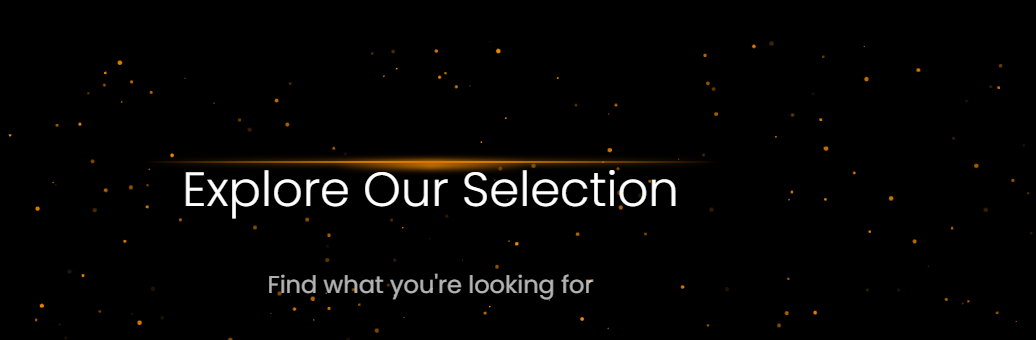
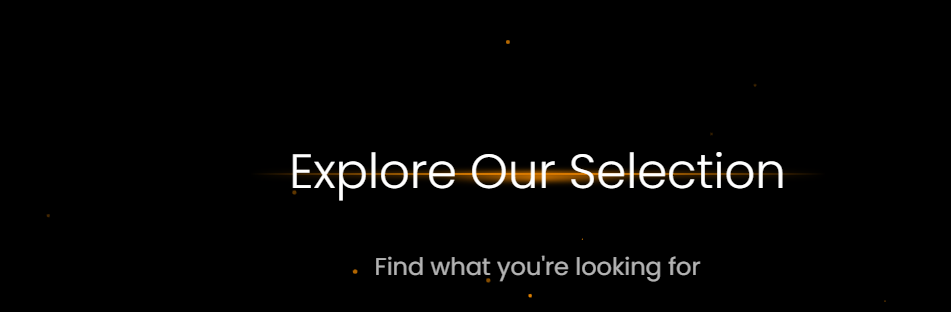
Position gradient line under title with particles flowing downward from center
- Moved gradient line from top:100px to top:75px to be directly under title
- Changed particle direction from "outside" to "bottom" for downward flow
- Particles spawn from center point (x:50%, y:8%) matching gradient midpoint
- Added random speed variation (0.5-2) for natural flow effect
- Increased particle count to 400 for more visible effect
- Particles emanate from bright center of gradient and flow downward

🤖 Generated with [Claude Code](https://claude.com/claude-code)

Changed region(s): [[0.1525, 0.4615, 0.8538, 0.6346], [0.244, 0.8077, 0.7319, 0.8942], [0.5489, 0.9231, 0.5794, 0.9519]]

diff --git a/docs/ecommerce/index.html b/docs/ecommerce/index.html
@@ -1224,7 +1224,7 @@
             <div id="sparkles-explore" style="width: 100%; height: 100%; position: absolute; top: 0; left: 0;"></div>
 
             <!-- Gradient Lines directly under title -->
-            <div style="position: absolute; left: 50%; top: 100px; transform: translateX(-50%); width: 60%; max-width: 40rem;">
+            <div style="position: absolute; left: 50%; top: 75px; transform: translateX(-50%); width: 60%; max-width: 40rem;">
                 <div style="position: absolute; left: 20%; top: 0; width: 60%; height: 2px; background: linear-gradient(to right, transparent, #F18A00, transparent); filter: blur(2px);"></div>
                 <div style="position: absolute; left: 20%; top: 0; width: 60%; height: 1px; background: linear-gradient(to right, transparent, #F18A00, transparent);"></div>
                 <div style="position: absolute; left: 40%; top: 0; width: 20%; height: 5px; background: linear-gradient(to right, transparent, #d67800, transparent); filter: blur(2px);"></div>

diff --git a/docs/ecommerce/js/sparkles.js b/docs/ecommerce/js/sparkles.js
@@ -47,24 +47,27 @@ function initSparkles() {
                 value: "#F18A00", // Sessions orange
             },
             move: {
-                direction: "outside",
+                direction: "bottom",
                 enable: true,
                 outModes: {
                     default: "out",
                 },
-                random: false,
-                speed: 1.5,
+                random: true,
+                speed: {
+                    min: 0.5,
+                    max: 2,
+                },
                 straight: false,
             },
             number: {
                 density: {
                     enable: false,
                 },
-                value: 300,
+                value: 400,
             },
             position: {
                 x: 50,
-                y: 10,
+                y: 8,
             },
             opacity: {
                 value: {
